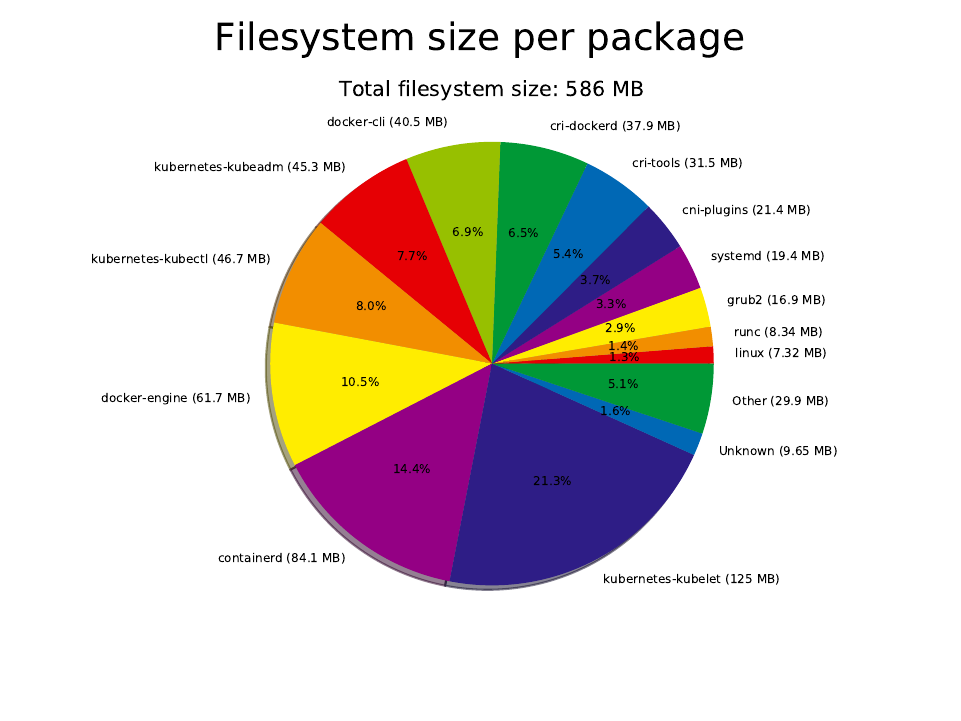
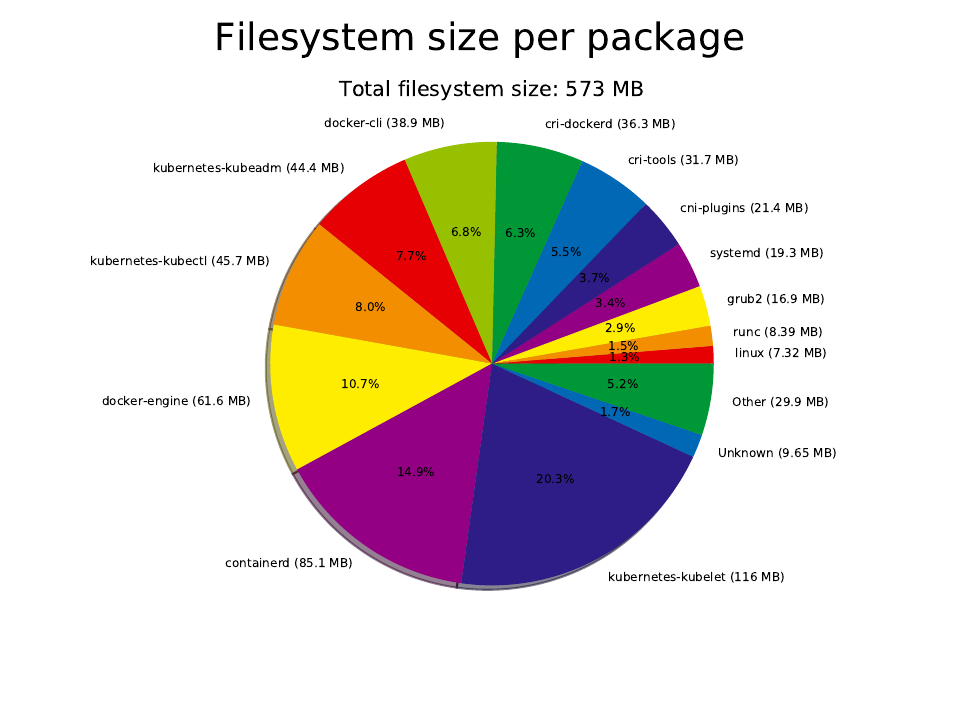
Update information and images about sizes

diff --git a/README.md b/README.md
@@ -40,27 +40,27 @@ User
 Bootable image:
 
 ```
-172M	output/disk.img.gz
+176M	output/disk.img.gz
 ```
 
 Kubernetes bin:
 
 ```
-44M	/usr/bin/kubeadm
-45M	/usr/bin/kubectl
-119M	/usr/bin/kubelet
+43M	/usr/bin/kubeadm
+44M	/usr/bin/kubectl
+111M	/usr/bin/kubelet
 ```
 
 Required images:
 
 ```console
 $ kubeadm config images list
-k8s.gcr.io/kube-apiserver:v1.23.5
-k8s.gcr.io/kube-controller-manager:v1.23.5
-k8s.gcr.io/kube-scheduler:v1.23.5
-k8s.gcr.io/kube-proxy:v1.23.5
-k8s.gcr.io/pause:3.6
-k8s.gcr.io/etcd:3.5.1-0
+k8s.gcr.io/kube-apiserver:v1.24.0
+k8s.gcr.io/kube-controller-manager:v1.24.0
+k8s.gcr.io/kube-scheduler:v1.24.0
+k8s.gcr.io/kube-proxy:v1.24.0
+k8s.gcr.io/pause:3.7
+k8s.gcr.io/etcd:3.5.3-0
 k8s.gcr.io/coredns/coredns:v1.8.6
 ```
 
@@ -68,15 +68,15 @@ k8s.gcr.io/coredns/coredns:v1.8.6
 
 ```
 REPOSITORY                           TAG        IMAGE ID       CREATED         SIZE
-k8s.gcr.io/kube-apiserver            v1.23.5    3fc1d62d6587   3 days ago      135MB
-k8s.gcr.io/kube-controller-manager   v1.23.5    b0c9e5e4dbb1   3 days ago      125MB
-k8s.gcr.io/kube-scheduler            v1.23.5    884d49d6d8c9   3 days ago      53.5MB
-k8s.gcr.io/kube-proxy                v1.23.5    3c53fa8541f9   3 days ago      112MB
-k8s.gcr.io/pause                     3.6        6270bb605e12   6 months ago    683kB
-k8s.gcr.io/etcd                      3.5.1-0    25f8c7f3da61   4 months ago    293MB
-k8s.gcr.io/coredns/coredns           v1.8.6     a4ca41631cc7   5 months ago    46.8MB
-flannelcni/flannel                   v0.17.0    9247abf08677   2 weeks ago     59.8MB
-flannelcni/flannel-cni-plugin        v1.0.1     ac40ce625740   8 weeks ago     8.1MB
+k8s.gcr.io/kube-apiserver            v1.24.0    529072250ccc   29 hours ago    130MB
+k8s.gcr.io/kube-proxy                v1.24.0    77b49675beae   29 hours ago    110MB
+k8s.gcr.io/kube-scheduler            v1.24.0    e3ed7dee73e9   29 hours ago    51MB
+k8s.gcr.io/kube-controller-manager   v1.24.0    88784fb4ac2f   29 hours ago    119MB
+k8s.gcr.io/pause                     3.7        221177c6082a   7 weeks ago     711kB
+k8s.gcr.io/etcd                      3.5.3-0    aebe758cef4c   2 weeks ago     299MB
+k8s.gcr.io/coredns/coredns           v1.8.6     a4ca41631cc7   6 months ago    46.8MB
+flannelcni/flannel                   v0.17.0    9247abf08677   2 months ago    59.8MB
+flannelcni/flannel-cni-plugin        v1.0.1     ac40ce625740   3 months ago    8.1MB
 ```
 
 ![image size](image-size.png)
@@ -84,27 +84,27 @@ flannelcni/flannel-cni-plugin        v1.0.1     ac40ce625740   8 weeks ago     8
 `docker pull` (gzip):
 
 ```
-31M	images/k8s.gcr.io/kube-apiserver_v1.23.5
+32M	images/k8s.gcr.io/kube-apiserver_v1.24.0
+37M	images/k8s.gcr.io/kube-proxy_v1.24.0
+15M	images/k8s.gcr.io/kube-scheduler_v1.24.0
+29M	images/k8s.gcr.io/kube-controller-manager_v1.24.0
+292K	images/k8s.gcr.io/pause_3.7
+97M	images/k8s.gcr.io/etcd_3.5.3-0
 13M	images/k8s.gcr.io/coredns/coredns_v1.8.6
-284K	images/k8s.gcr.io/pause_3.6
-15M	images/k8s.gcr.io/kube-scheduler_v1.23.5
-94M	images/k8s.gcr.io/etcd_3.5.1-0
-29M	images/k8s.gcr.io/kube-controller-manager_v1.23.5
-37M	images/k8s.gcr.io/kube-proxy_v1.23.5
 19M	images/docker.io/flannelcni/flannel_v0.17.0
-3,6M	images/docker.io/flannelcni/flannel-cni-plugin_v1.0.1
-239M	total
+3.6M	images/docker.io/flannelcni/flannel-cni-plugin_v1.0.1
+244M	total
 ```
 
 `docker save | xz`:
 
 ```
-162M	images.txz
+166M	images.txz
 ```
 
 ```
 Strms  Blocks   Compressed Uncompressed  Ratio  Check   Filename
-    1      51    161,5 MiB    789,9 MiB  0,204  CRC32   images.txz
+    1      50    165.4 MiB    776.0 MiB  0.213  CRC32   images.txz
 ```
 
 Device layout:
